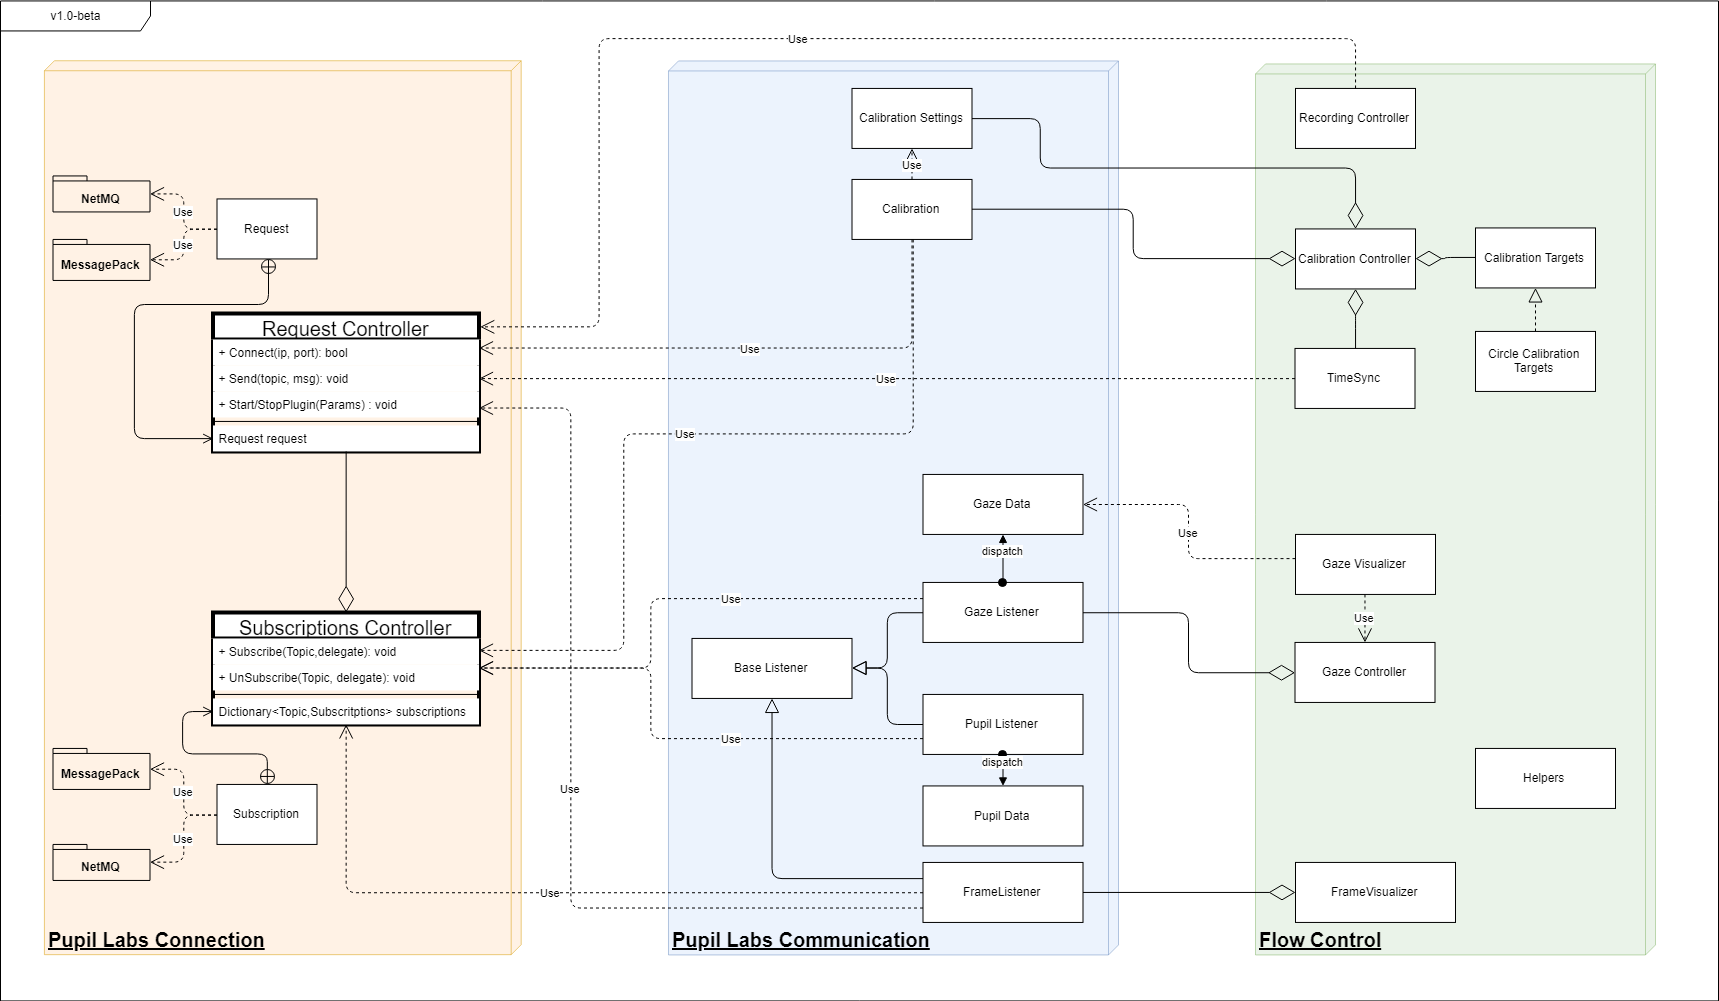
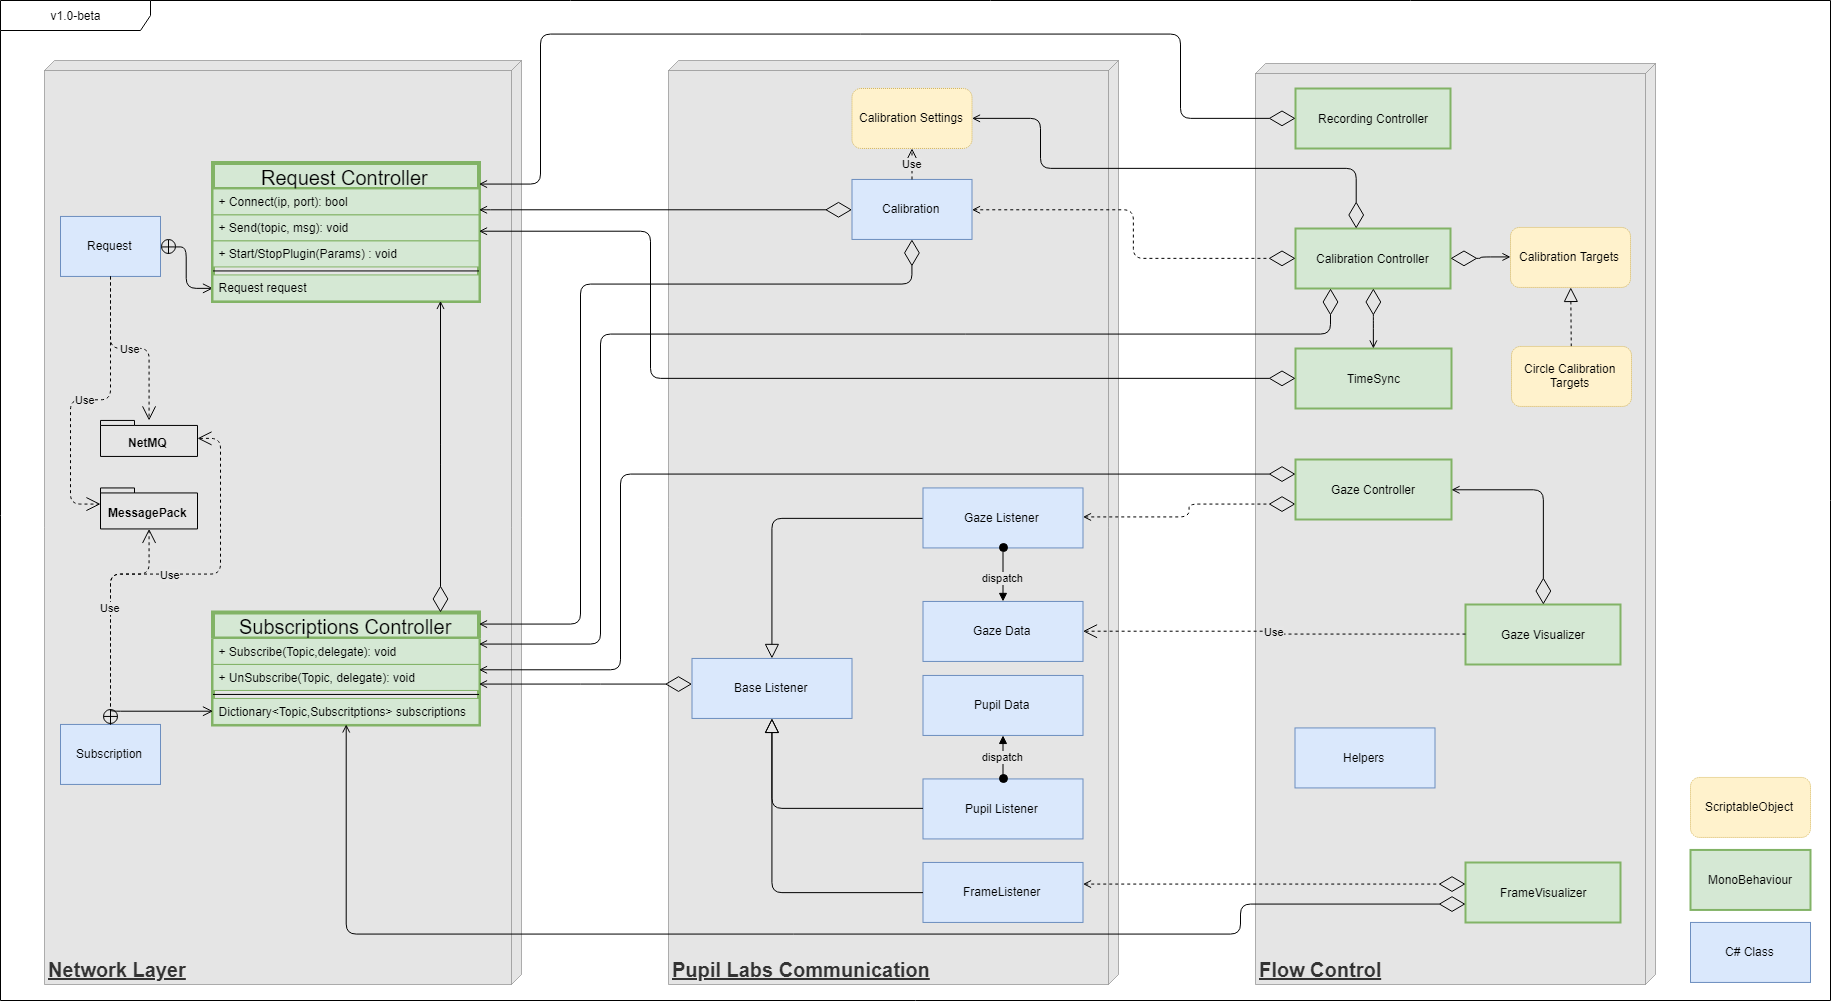
WIP: restructured and updated documentation

diff --git a/docs/Developer.md b/docs/Developer.md
@@ -18,16 +18,21 @@
   - [Recording Data](#recording-data)
   - [Demo Scenes](#demo-scenes)
 
-## Getting Started 
+## Getting Started
 
-This section of the docs will show you how to set up your development environment in Unity3D so that you can work with Pupil + Unity.
+This section of the docs guide through the setup of the development environment in Unity3D + Pupil Capture/Service. 
 
-### Pupil Capture or Service
+*Please follow each step of this section and familiarize yourself with the Pupil Capture/Service before jumping into action.*
+
+### Pupil Capture or Pupil Service
 
 For people new to hmd-eyes, we recommend using the project with [Pupil Capture](https://docs.pupil-labs.com/#pupil-capture). 
-It supports recordings and the GUI offers detailed feedback (e.g. pupil detection confidence), which is especially important for gaze tracking or features like blink detection). 
+It supports recordings and the GUI offers detailed feedback like pupil detection confidence, which is especially important during the initial setup and adjusting the pupil detection settings. 
+Be aware that Pupil Capture sends out data packages in small bundles with a slightly higher delay. 
 
-[Pupil Service](https://docs.pupil-labs.com/#pupil-service) features a simplified GUI and a toolset tailored towards low-latency real-time data access.
+In contrast [Pupil Service](https://docs.pupil-labs.com/#pupil-service) features a simplified GUI and a toolset tailored towards low-latency real-time data access.
+
+Please refer to the Pupil Software [getting started](https://docs.pupil-labs.com/#capture-workflow) and [user docs](https://docs.pupil-labs.com/#pupil-detection) to ensure that eyes are well captured and that the pupil detection runs with high confidence (~0.8).
 
 ### Dependencies
 
@@ -35,23 +40,11 @@ It supports recordings and the GUI offers detailed feedback (e.g. pupil detectio
 * `ProjectSettings/Player/Configuration/Scripting Runtime Verion` set to **.NET 4.x Equivalent**.
 * Due to an issue with MessagePack, the default project setting for `ProjectSettings/Player/Configuration/API Compatibility Level` is not supported and needs to be set to **.NET 4.x**
   
-### Adding hmd-eyes to Existing Projects
-
->Please be aware that for Unity plugins in general to work (especially demo scenes) it is not sufficient to clone and copy paste the plugin/source folder!
-
-Instead HMD-Eyes provides what is called `Unity Package` assets
-- `Pupil.Import.Package.VR.unitypackage`
-- ~~`Pupil.Import.Package.HoloLens.unitypackage`~~ (TBD)
-
-To import either one in Unity, select `Assets/Import Package/Custom Package...` and navigate to where you downloaded the file to. You are presented with a dialog to choose from the files included in the package. Press `Import` to import all of them. This will create a new folder named `Plugins/Pupil` in your project structure including all necessary scripts and assets to integrate eye tracking with your own project.
-
-Use the demo scenes included in the Unity projects described here as an example on how to get started.
-
 ### VR Build and Player Settings
 
 ![VR Build And Player Settings](VRBuildAndPlayerSettings.png)
 
-Hmd-eyes provides a `starter_project_vr`. This project is almost identical to the default Unity 3d project and only contains changes in the settings. You still have to install the hmd-eyes plugin as described above.
+Hmd-eyes provides a `starter_project_vr`. This project is almost identical to the default Unity 3D project and only contains changes in the settings. You still have to install the hmd-eyes plugin as described below.
 
 If you start from a fresh project, you have to make sure that the following settings are set:
 
@@ -60,20 +53,35 @@ If you start from a fresh project, you have to make sure that the following sett
 
 The software has been tested for both Oculus and OpenVR SDKs. Please make sure to select the correct SDK for your headset. 
 
+### Adding hmd-eyes to Existing Projects
+
+>Please be aware that for Unity plugins in general to work (especially demo scenes) it is not sufficient to clone and copy paste the plugin/source folder!
+
+Instead HMD-Eyes provides what is called `Unity Package` assets
+- `Pupil.Import.Package.VR.unitypackage`
+- ~~`Pupil.Import.Package.HoloLens.unitypackage`~~ *(TBD)*
+
+To import either one in Unity, select `Assets/Import Package/Custom Package...` and navigate to where you downloaded the file to. You are presented with a dialog to choose from the files included in the package. Press `Import` to import all of them. This will create a new folder named `Plugins/Pupil` in your project structure including all necessary scripts and assets to integrate eye tracking with your own project.
+
+### First Steps
+
+To get started with hmd-eyes, we recommend to have a look at and play with the [Demo Scenes](#demo-scenes). Make sure that the demo scenes are working as described (especially the `GazeDemoScene`).
+
 ## Plugin Overview
 
-The plugin architecture consists of three layers
-- Pupil Connection (low level api): 
+The plugin architecture consists of three layers, which are building on one another.
 
-    Connection to Pupil Capture, sending messages and managing subscriptions
+- **Network Layer** (low level api): 
 
-- Pupil Communicaton (high level api): 
+    Connection to the network API of Pupil Capture/Service, utilizing `NetMQ` and `MessagePack` to send and receive messages (`RequestController`) and manage subscriptions (`SubscriptionsController`). 
 
-    High level classes handling the communication and data parsing for specific topics       
+- **Pupil Communicaton** (high level api): 
 
-- Flow Control:
+    High level classes handling the communication (*e.g.* `Calibration`) and data parsing for the main topics like pupil (`PupilListener`) and gaze (`GazeListener`).       
 
-    Components for visualizing Pupil Capture data or guiding through specific processes
+- **Flow Control**:
+
+    Ready-made components for visualizing data (*e.g.* `GazeVisualizer`) and guiding through processes like the calibration (`CalibrationController`). 
 
 ![Architecture](architecture.png)
 
@@ -81,36 +89,77 @@ The plugin architecture consists of three layers
 
 *TBD* -->
 
-<!-- ### Scene Management
+## Connection to Pupil Capture/Service
 
-Demo: [SceneManagementDemo](#SceneManagementDemo)
-
-*TBD* -->
-
-## Communicating with Pupil
-
-All demos contain an instance of the `Pupil Connection` prefab. This is the base for communicating with Pupil Capture. 
+All demos contain an instance of the `Pupil Connection` prefab. 
+It combines the *Request- and Subscriptionscontroller*, which are the base for accessing the network API of Pupil Capture/Service and represent the low-level API of hmd-eyes.
 
 ![Pupil Connection](PupilConnection.png)
 
-The `RequestController` handles all messages towards Pupil like starting plugins. Inside the request controller you can change IP&Port, in case of not running Pupil Capture locally or not using the default port *50020*.
+#### RequestController
 
-The `SubscriptionsController` allows to subscribe based on topics like `pupil`, `gaze` or `blink`. For the most important or more complex topics we provided additional abstraction with listener classes like `GazeListener`, which we introduce later in this document.
+The `RequestController` is reponsible for connecting to the network API (including access to the sub- and pubport) and handles all request towards Pupil - for example starting a plugin.
 
-Both provide a property for the connection status and `RequestController` also offers C# events for *OnConnect* and *OnDisconnect*
+**Settings**: 
 
-All *Listeners* and high level components need acces to the Pupil Connection object, which is done via the Unity inspector. The demos **BlinkDemo** and **PupilDataDemo** are good starting points for understanding how the communication with Pupil works. 
+* `auto connect` - on by default
+* `IP` & `Port` - via the inspector under `Request`
 
-## Display Eye Images
+**Events**:  
+    
+* `OnConnected()`: after a connection is established.
+* `OnDisconnecting()`: right before the connection is closed to allow for freeing resources and ending routines.
 
-Demo: [Frame Publishing Demo](#FramePublishingDemo)
+#### SubscriptionsController
 
-To display images of the eyes, we provided a component called `FrameVisualizer`. It is based on the `FrameListener`, which takes care of subscribing to the `frame` topic and provides C# events on receiving eye frame data. The visualizer component displays the eye frames as `Texture2D` as children of the camera. 
+The `SubscriptionsController` allows to subscribe to data messages based on their topics. It manages all `SubscriptionSockets` and delegate bindings internally (see [Accessing Data](#accessing-data)). 
+ 
+**Events:** The method `SubscribeTo(...)` allows to bind `ReceiveDataDelegate` delegates for each topic individually. 
 
-![Frame Visualizer](FrameVisualizer.png)
+---
+
+Both components provide a property for the connection status via `IsConnected()`.
+
+>All *Listeners* and high level components need acces to the Pupil Connection object, which is done via the Unity inspector.  
+
+## Accessing Data 
+
+> Be aware that all timestamps received via hmd-eyes are in Pupil Time. Have a look the `TimeSync` component discusssed [here](#timesync). 
+
+### Low-level data acess
+
+Demo: [Blink Demo](#Blink)
+
+The `SubscriptionsController` is the main component to get low-level data access. 
+
+> For the main topics ([pupil](#pupil-data) and [gaze](#gaze-tracker)) we provided additional abstraction with listener classes and high level components.
+
+The **BlinkDemo** is a good starting point for understanding how the low-level communication with Pupil works in case you need access to data not provided by the *Pupil Communication* layer.
+
+### Pupil Data
+
+Demo: [Pupil Demo](#Pupil)
+
+One of the most often asked for examples is getting values for pupil diameter.
+
+Since the hmd-eyes v1.0 we provide a dedicated `PupilListener` dispatching events containing fully preparsed `PupilData` objects - including diameter. Be aware that there are two values for diameter - one in pixels and one in mm.
+
+Checkout the public properties of the [PupilData.cs](../plugin/Scripts/PupilData.cs) to see what kind of data is available.
+
+### Gaze Data
+
+The `GazeListener` works identical to the `PupilListener` but dispatching events containing fully parsed `GazeData` objects. But in order to receive meaningful data it is needed to run a calibration routine beforehand. The whole setup is described in the next [section](#gaze-tracker).
+
+## Gaze Tracking
+
+*TBD short version of full setup*
+
+<!-- For your own applications you might not want to visualize gaze at all but access it directly. In this case you need to write your own component utilizing the `GazeListener` class similar to the `GazeVisualizer`.
+
+Checkout the public properties of the [GazeData.cs](../plugin/Scripts/GazeData.cs) to see what kind of data is available. Keep in mind that most vectors like `GazeDirection` and `EyeCenter0/1` are local coordinates in VR camera space.  -->
 
 
-## Calibration 
+### Calibration 
 
 In order to know what someone is looking at in the scene, we must establish a mapping between pupil positions and the gaze point. 
 
@@ -129,7 +178,7 @@ As all *Listeners* and other high level components the `CalibrationController` n
 ![Calibration Controller](CalibrationController.png)
 
 
-### Calibration Settings and Targets
+#### Calibration Settings and Targets
 
 The controller allows to swap different `CalibrationSettings` and `CalibrationTargets`. Both are `ScriptableObjects`, so you can create your own via the *Assets/Create/Pupil* menu or use the default ones inside the *Calibration Resources* folder.
 
@@ -147,11 +196,11 @@ The plugin provides `CircleCalibrationTargets` as a default implementation, whic
 
 On top `CalibrationTargets` and the `CalibrationController` are setup in a way that you can write your own implementation of `CalibrationTargets` and plug them into the controller. Be aware that the controller expects targets in local/camera space and not world coordinates.
 
-### Calibration Success/Failure 
+#### Calibration Success/Failure 
 
 When the calibration process is complete, all reference points are sent to Pupil software. Pupil software will respond with a `success` or `failure` message. `CalibrationController` provides C# events for *OnStarted*, *OnSucceeded* and *OnFailed*.
 
-## Gaze Tracking
+### Accessing Gaze Data
 
 Demo: [GazeDemo](#GazeDemo)
 
@@ -167,66 +216,20 @@ The visualization is using the `GazeData.GazeDirection` to project into the scen
 
 Checkout the `Gaze Controller` prefab to add gaze tracking to your own scenes.
 
-### GazeDirection + GazeDistance instead of GazePoint3d
+#### GazeDirection + GazeDistance instead of GazePoint3d
 
 Instead of directly using the data field `GazeData.GazePoint3d` we recommend to use the equivalent representation as `GazeData.GazeDirection` and `GazeData.GazeDistance` as this representation clearly separates the angular error from the depth error. Note that while the depth error increases with growing distance of the gaze target the direction remains accurate (angular error of less than 2 degrees).
 
 Due to access to 3d informations about the VR environment, the gaze estimation can be enhanced by using the `GazeData.GazeDirection` to project into the scene via [raycasting](https://docs.unity3d.com/ScriptReference/Physics.Raycast.html).
 
-## Accessing Data 
 
-For your own applications you might not want to visualize gaze at all but access it directly. In this case you need to write your own component utilizing the `GazeListener` class similar to the `GazeVisualizer`.
+## Utilities
 
-Checkout the public properties of the [GazeData.cs](../plugin/Scripts/GazeData.cs) to see what kind of data is available. Keep in mind that most vectors like `GazeDirection` and `EyeCenter0/1` are local coordinates in VR camera space. 
+### Time Conversion
 
-### Examples for topics that do not require calibration 
+*TBD*
 
-We include three demo scenes that exemplify subscribing to topics to get data for which no calibration is required
-- `Blink`,
-- `Frame Publishing` (short description below) and 
-- `Pupil`, for which we will go into more detail, here: 
-
-One of the most often asked for examples is getting values for pupil diameter.  The steps involved (taken from [`PupilDataDemo.cs`](../plugin/Demos/PupilDataDemo/PupilDataDemo.cs)) are as follows:
-
-- `subsCtrl.SubscribeTo("pupil", CustomReceiveData);`, to subscribe to both eyes
-
-- Once data is being sent
-
-```c#
-CustomReceiveData(string topic, Dictionary<string,object> dictionary, byte[] thirdFrame = null)
-```
-will be called to interpret the result
-
-```c#
-if (topic.StartsWith ("pupil") )
-{
-    foreach (var item in dictionary)
-    {
-        switch (item.Key)
-        {
-        case "topic":
-        case "method":
-        case "id":
-            var textForKey = PupilTools.StringFromDictionary (dictionary, item.Key);
-            // Do stuff
-            break;
-        case "confidence":
-        case "timestamp":
-        case "diameter":
-            var valueForKey = PupilTools.FloatFromDictionary (dictionary, item.Key);
-            // Do stuff
-            break;
-``` 
-
-There are multiple subtopics included in the dictionary and as "diameter" is of type `float`, we need to call the following method to get the actual value
-
-```
-Helpers.FloatFromDictionary(Dictionary<string,object> source, string key)
-```
-
-The script implementation is based on the values you receive for 2D capturing mode. Have a look at [the documentation](https://github.com/pupil-labs/pupil-docs/blob/master/user-docs/data-format.md#looking-at-the-data) to see the additional values available in 3D mode.
-    
-## Recording Data
+### Recording Data
 
 Demo: [DataRecordingDemo](#DataRecordingDemo)
 
@@ -244,9 +247,19 @@ We removed the functionality for recording a screen capture in Unity as this rec
 
 The resulting files are saved to the path set in `PupilSettings/Recorder/File Path`. You can change it manually, there, or through the `PupilGazeTracker` Inspector GUI under `Settings` by activating `CustomPath` and clicking the `Browse` button.  -->
 
-## Demo Scenes 
+### Unity Sceen Screen Casting
 
-Here a short description of the included examples and what should be visible on screen.
+*TBD*
+
+### Display Eye Images
+
+Demo: [Frame Publishing Demo](#FramePublishingDemo)
+
+To display images of the eyes, we provided a component called `FrameVisualizer`. It is based on the `FrameListener`, which takes care of subscribing to the `frame` topic and provides C# events on receiving eye frame data. The visualizer component displays the eye frames as `Texture2D` as children of the camera. 
+
+![Frame Visualizer](FrameVisualizer.png)
+
+## Demo Scenes 
 
 ### Pupil
 
@@ -327,3 +340,6 @@ After calibration, press `h` to start recording the output video or to capture t
     - `Particle Color Final` - Color for oldest particle in Image mode. Every color in between will be interpolated 
     
 The heatmap is available as Prefab, and can be added to existing scenes by dragging it onto the main camera of that scene. -->
+
+
+## FAQ
